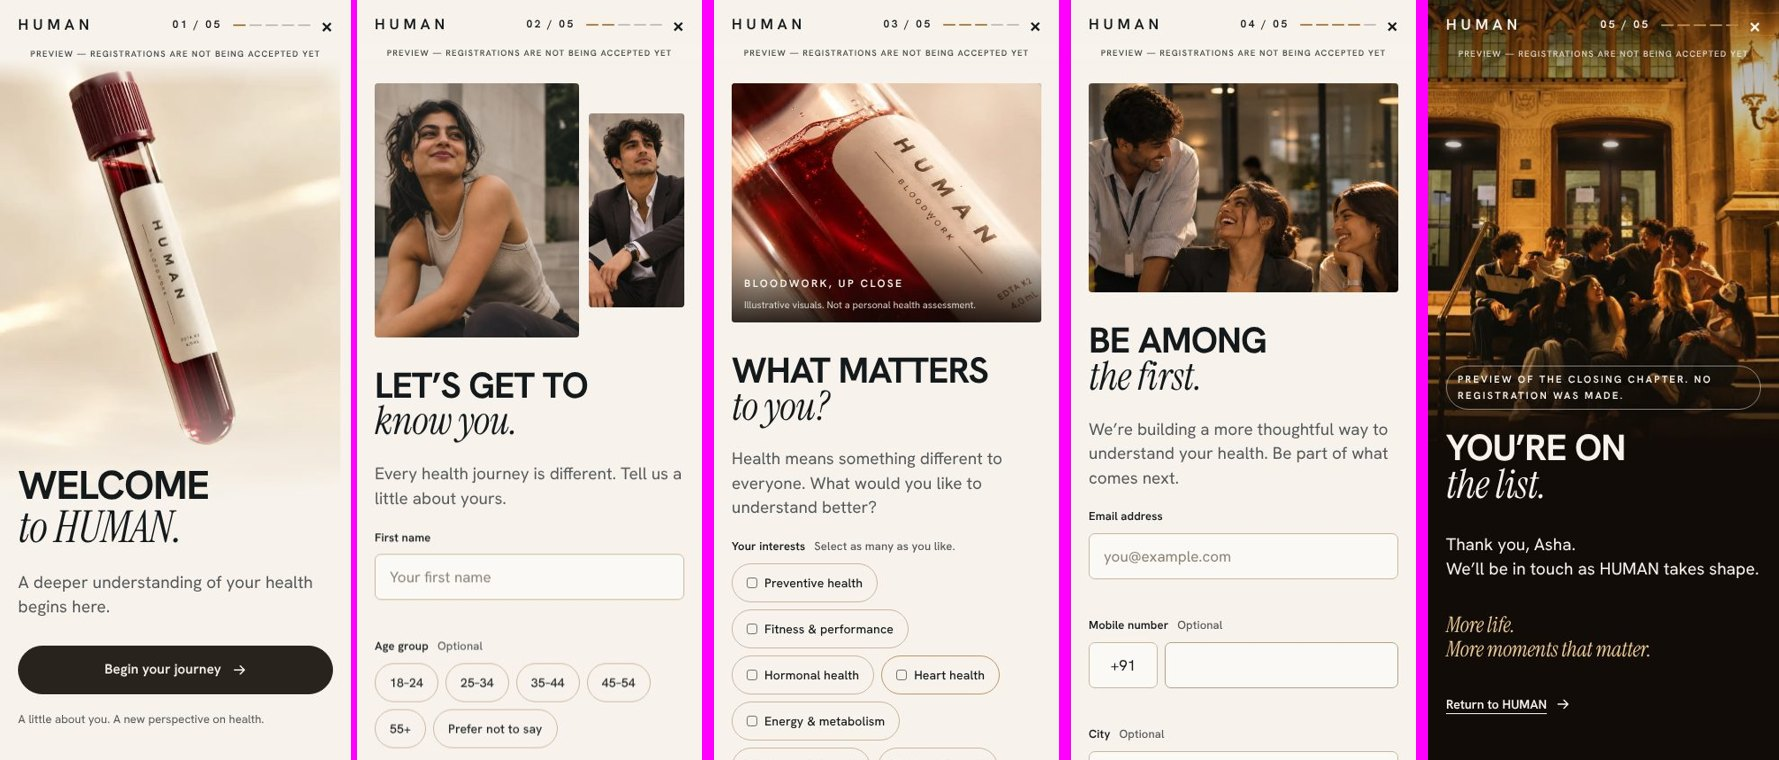
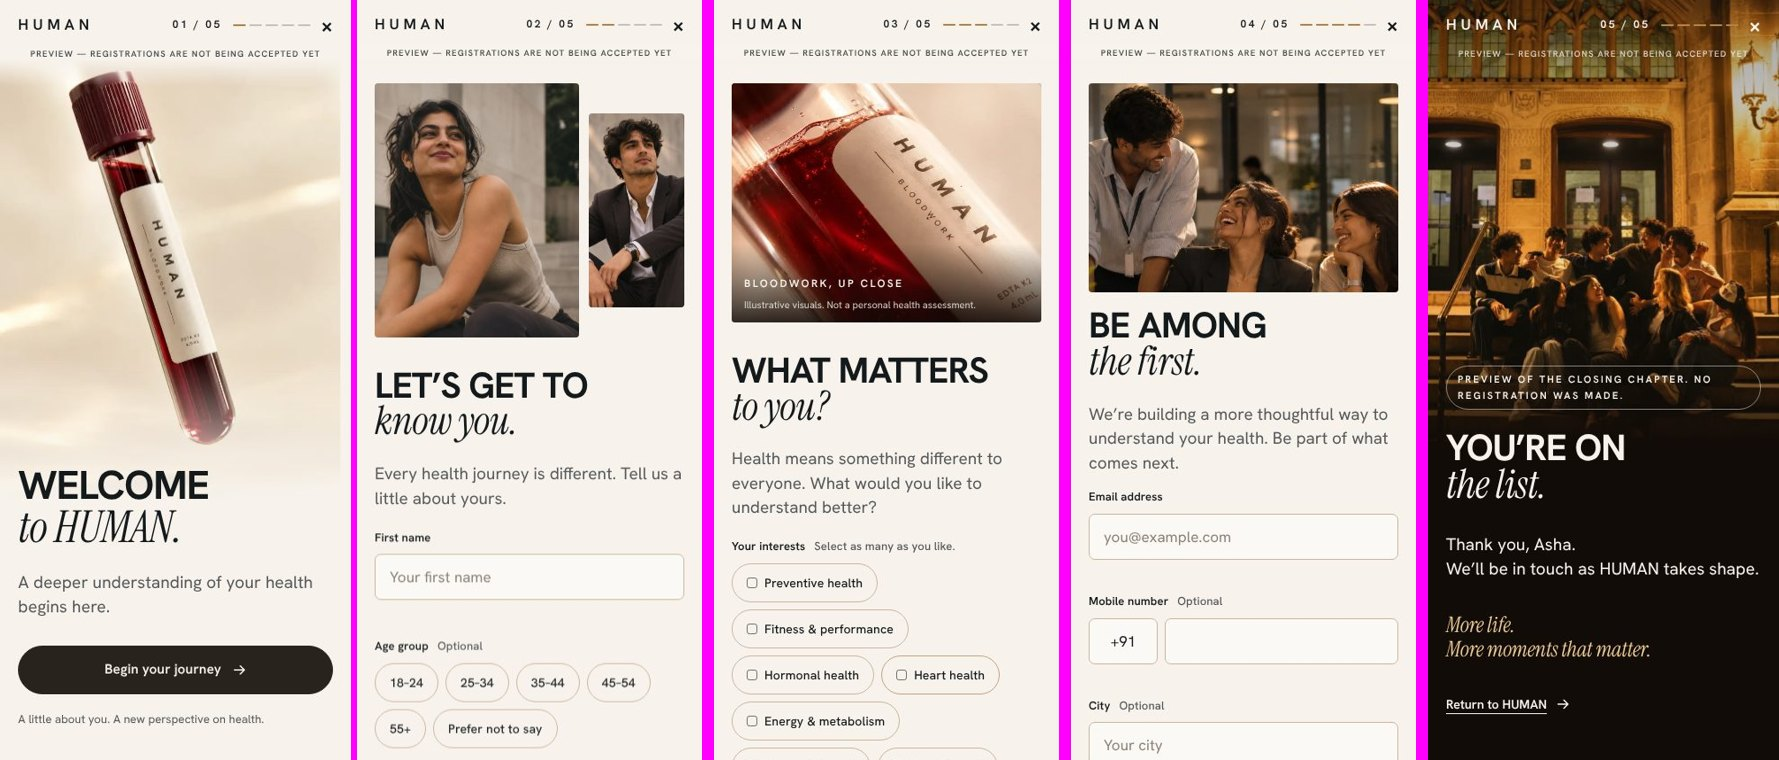
Portal typography: docs and site-versus-portal comparison screenshots (65 passing)
Claude-Session: https://claude.ai/code/session_01JRGGHrpdd7wSPzQs8j1pgT

diff --git a/docs/HUMAN-BUILD-STATUS.md b/docs/HUMAN-BUILD-STATUS.md
@@ -356,3 +356,7 @@ Replaces the previous `/waitlist` flow (rollback tag `v13-before-portal`). Full 
 - **Submission**: default, validation error, submitting, network failure, server failure, duplicate, accepted. Preview build sends nothing.
 - **Not supplied**: A15 cardiovascular (Heart health uses A03).
 - **Status**: development preview. Not a live waitlist.
+
+### Portal typography aligned with the main site (2026-11-15)
+
+The portal's own Manrope / Bodoni Moda pairing was replaced with the site's Hanken Grotesk / Instrument Serif italic, taken from the site's variables rather than re-declared. Headlines follow the site's `.display` rule (700, −0.025em, 0.98 line height; italic at 1.1×, −0.01em); wordmark, button text, lede, notes, labels and text colours use the site's values and tokens. Form controls now inherit the typeface (a test found some falling back to Arial). Chapter 04 spacing was tightened to fit the larger supporting text. Nothing else in the portal changed. e2e 65/65 in Chromium. Evidence: `docs/reviews/v15-portal-typography/`.

diff --git a/docs/HUMAN-PORTAL.md b/docs/HUMAN-PORTAL.md
@@ -12,7 +12,7 @@ Status on 2026-11-15: **development preview.** The portal is fully built at `/wa
 | Supplied originals (never edited) | `src/assets/portal/originals/` |
 | Tests `HP-01` … `HP-17` | `tests/e2e.mjs` |
 
-Built with the site's existing Astro + TypeScript stack. Transitions use the browser's Web Animations API and CSS; there is no React, GSAP or WebGL. Fonts (Manrope, Bodoni Moda Italic) are self-hosted from npm packages and load on this page only.
+Built with the site's existing Astro + TypeScript stack. Transitions use the browser's Web Animations API and CSS; there is no React, GSAP or WebGL. Typography is the main site's: Hanken Grotesk and Instrument Serif italic through the site's own `--sans` / `--serif` variables, type-scale tokens and text colours. The portal declares no fonts of its own (the Manrope and Bodoni Moda packages from the first build were removed on 2026-11-15); test `HP-18` compares the portal's computed typography against a main-site page.
 
 ## Asset use
 
